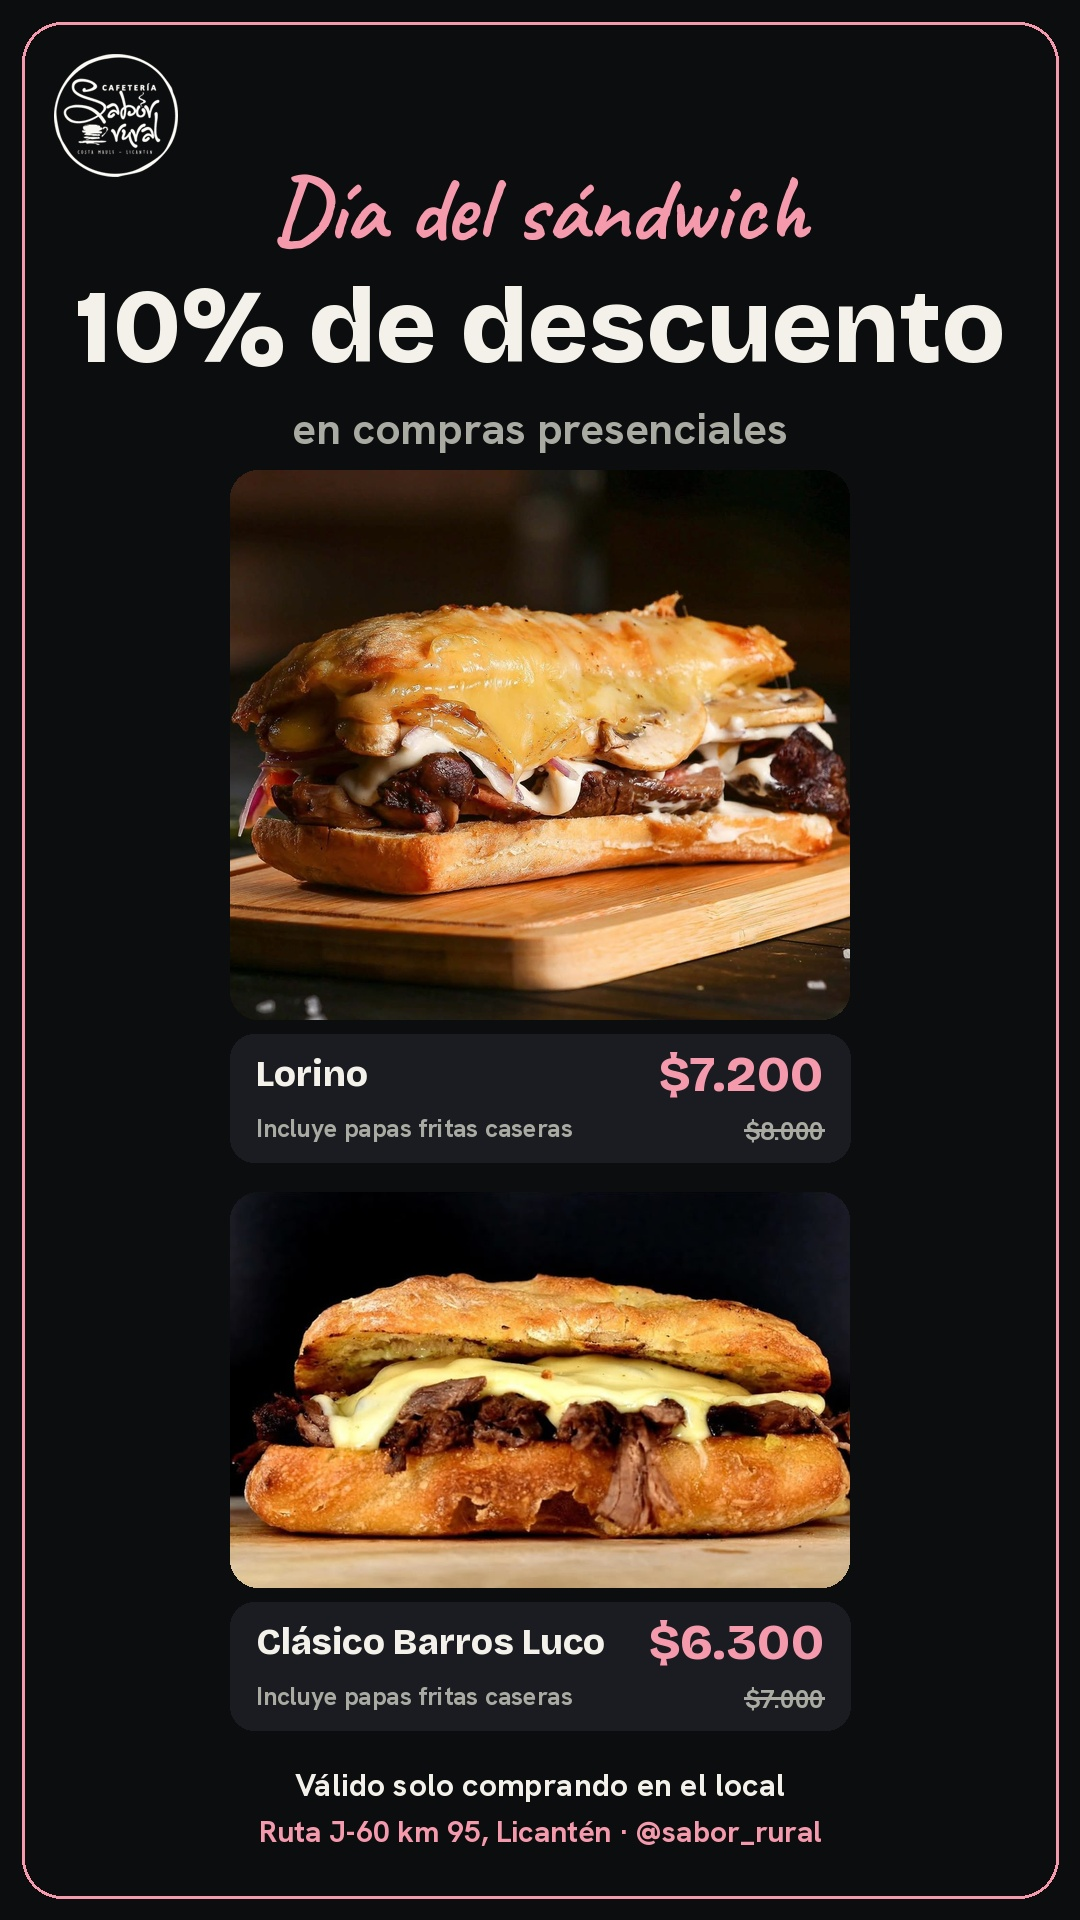
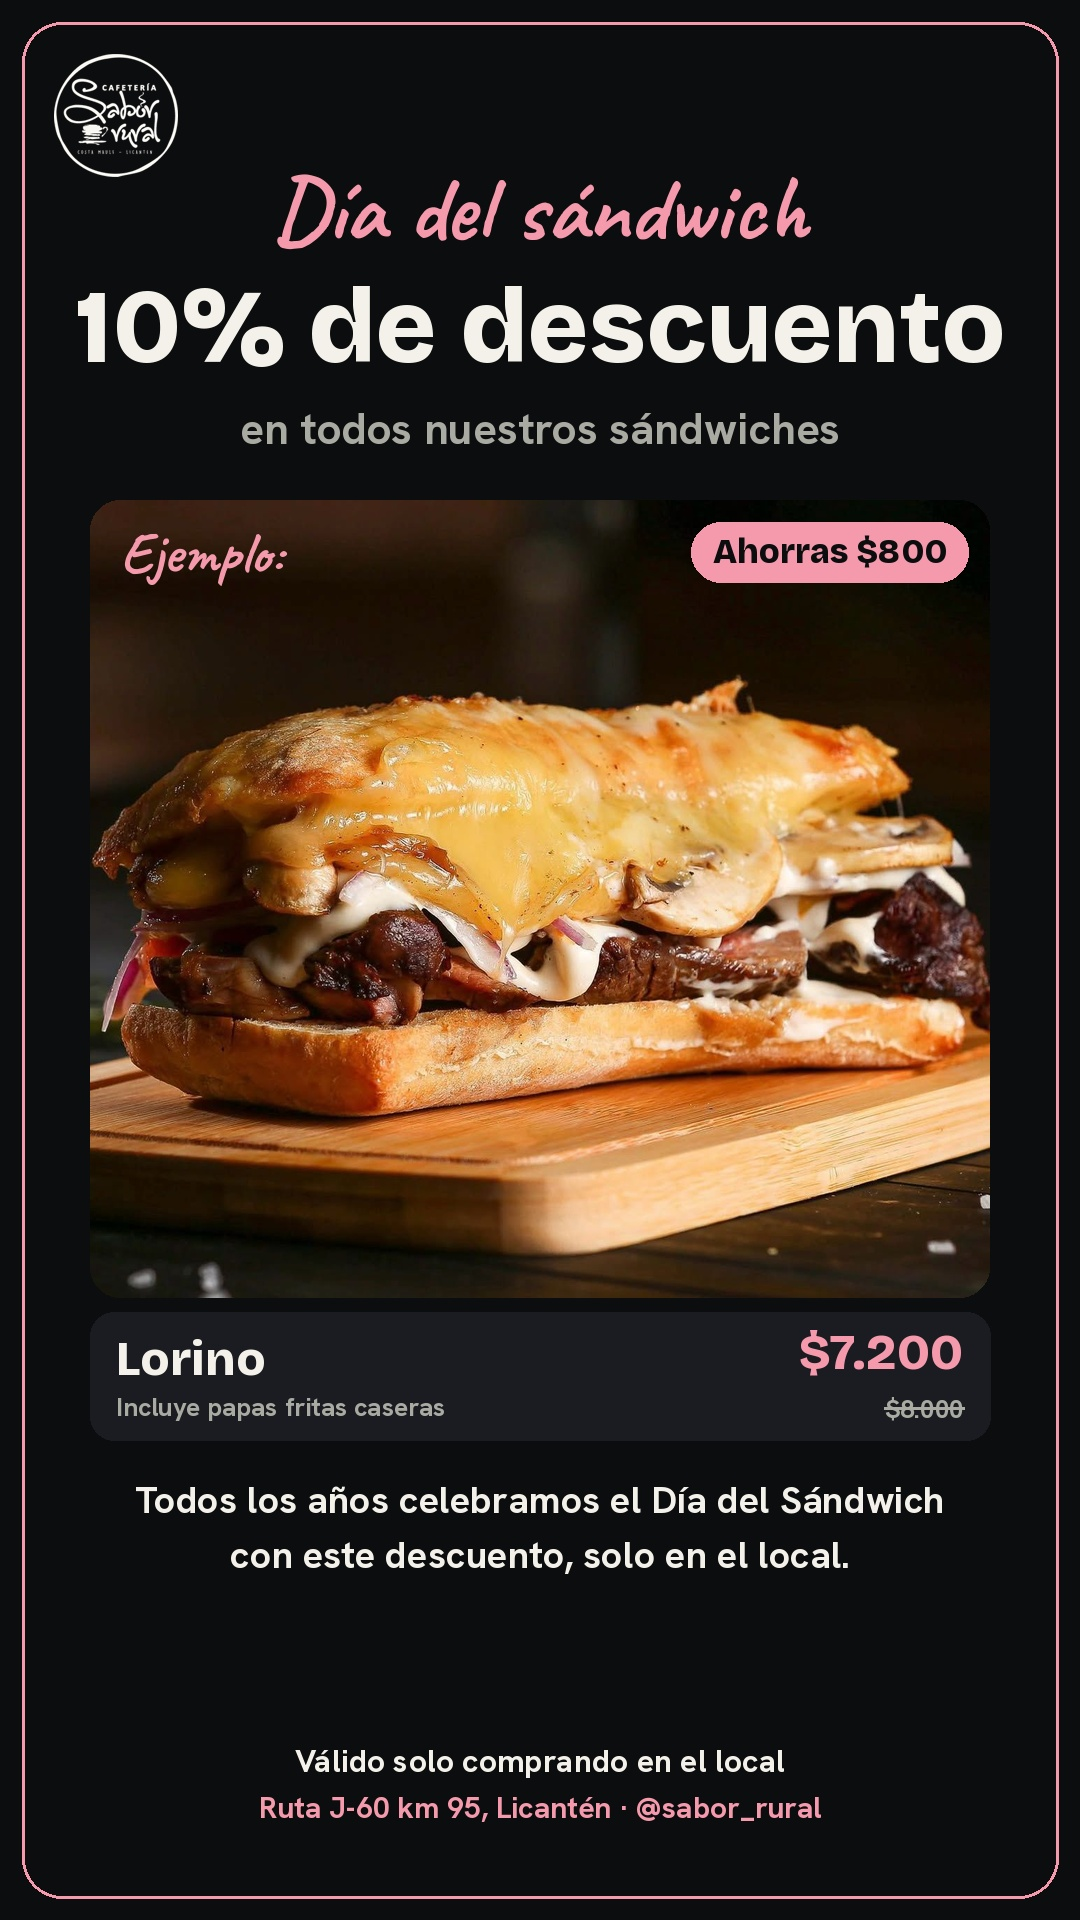
Día del Sándwich v3: solo Lorino con ejemplo de ahorro, sin foto Barros Luco

diff --git a/herramientas/dia-sandwich.py b/herramientas/dia-sandwich.py
@@ -24,26 +24,30 @@ def base(W,H):
 def foot(d,W,y):
     ctr(d,"Válido solo comprando en el local",F("hanken700.ttf",32),y,CREAM,W)
     ctr(d,"Ruta J-60 km 95, Licantén · @sabor_rural",F("hanken700.ttf",30),y+48,PINK,W)
+def ahorro(c,x,y):
+    d=ImageDraw.Draw(c); t="Ahorras $800"; f=F("bricolage800.ttf",34); w=int(d.textlength(t,font=f))+44
+    d.rounded_rectangle([x-w,y,x,y+60],radius=30,fill=PINK); d.text((x-22,y+30),t,font=f,fill=BG,anchor="rm")
+def lorino_bloque(c,d,W,y,w,fn,msg_y,msgsz):
+    h=int(lor.height*w/lor.width); c.alpha_composite(rounded(lor.resize((w,h),Image.LANCZOS),30),((W-w)//2,y))
+    ahorro(c,(W+w)//2-22,y+22)
+    d.text(((W-w)//2+30,y+16),"Ejemplo:",font=F("caveat700.ttf",58),fill=PINK)
+    chip(d,(W-w)//2,y+h+14,w,"Lorino","$8.000","$7.200",fn,fi=26)
+    f=F("hanken700.ttf",msgsz)
+    ctr(d,"Todos los años celebramos el Día del Sándwich",f,msg_y,CREAM,W)
+    ctr(d,"con este descuento, solo en el local.",f,msg_y+int(msgsz*1.45),CREAM,W)
+    return y+h+14+128
 def story():
     W,H=1080,1920; c,d=base(W,H)
     ctr(d,"Día del sándwich",F("caveat700.ttf",92),150,PINK,W)
     ctr(d,"10% de descuento",F("bricolage800.ttf",104),265,CREAM,W)
-    ctr(d,"en compras presenciales",F("hanken700.ttf",44),400,MUTE,W)
-    y=470
-    for im,w,nom,a,n in ((lor,620,"Lorino","$8.000","$7.200"),(bl,620,"Clásico Barros Luco","$7.000","$6.300")):
-        h=int(im.height*w/im.width); ph=rounded(im.resize((w,h),Image.LANCZOS),28); c.alpha_composite(ph,((W-w)//2,y))
-        chip(d,(W-w)//2,y+h+14,w,nom,a,n,36); y+=h+14+128+30
-    foot(d,W,y+4); c.convert("RGB").save(O+"dia-sandwich-9x16.jpg",quality=95); print("story y",y)
+    ctr(d,"en todos nuestros sándwiches",F("hanken700.ttf",44),400,MUTE,W)
+    e=lorino_bloque(c,d,W,500,900,48,1475,38)
+    foot(d,W,1740); c.convert("RGB").save(O+"dia-sandwich-9x16.jpg",quality=95)
 def post():
     W,H=1080,1350; c,d=base(W,H)
-    ctr(d,"Día del sándwich",F("caveat700.ttf",84),70,PINK,W)
-    ctr(d,"10% de descuento",F("bricolage800.ttf",96),170,CREAM,W)
-    ctr(d,"en compras presenciales",F("hanken700.ttf",40),290,MUTE,W)
-    w=480; gx=(W-2*w-30)//2; y0=470
-    for i,(im,nom,a,n) in enumerate(((lor,"Lorino","$8.000","$7.200"),(bl,"Barros Luco","$7.000","$6.300"))):
-        h=int(im.height*w/im.width); x=gx+i*(w+30)
-        c.alpha_composite(rounded(im.resize((w,h),Image.LANCZOS),26),(x,y0+(430-h)//2 if h<430 else y0))
-        chip(d,x,y0+456,w,nom if i==0 else "Barros Luco",a,n,38,fi=22)
-    ctr(d,"Clásico Barros Luco y Lorino",F("hanken700.ttf",30),y0+450+128+30,MUTE,W) if False else None
-    foot(d,W,1190); c.convert("RGB").save(O+"dia-sandwich-post-4x5.jpg",quality=95)
+    ctr(d,"Día del sándwich",F("caveat700.ttf",78),58,PINK,W)
+    ctr(d,"10% de descuento",F("bricolage800.ttf",90),150,CREAM,W)
+    ctr(d,"en todos nuestros sándwiches",F("hanken700.ttf",36),262,MUTE,W)
+    e=lorino_bloque(c,d,W,318,750,40,1150,27)
+    foot(d,W,1226); c.convert("RGB").save(O+"dia-sandwich-post-4x5.jpg",quality=95)
 story(); post()
